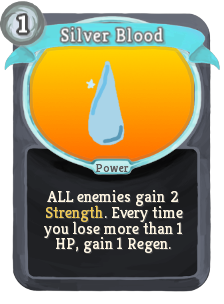
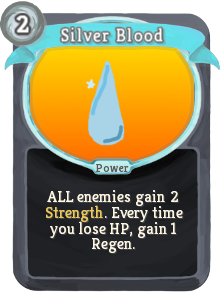
v0.2.17

Changed region(s): [[0.1875, 0.7105, 0.8125, 0.8586], [0.0625, 0.0296, 0.1562, 0.1184]]

diff --git a/imdex.html b/imdex.html
@@ -153,7 +153,7 @@
         <td>Common</td>
         <td>Attack</td>
         <td>1</td>
-        <td>Deal 9(12) Silent damage. Crit: !C! % Lose 1 Strength.</td>
+        <td>Deal 8(10) Silent damage. Crit: !C! % Lose 1 Strength.</td>
       </tr>
       
       <tr>
@@ -762,8 +762,8 @@
         <td><img src="card-images/SilverBloodPlus.png"></td>
         <td>Uncommon</td>
         <td>Power</td>
-        <td>1</td>
-        <td>ALL enemies gain 2(1) Strength. Every time you lose more than 1 HP, gain 1 Regen.</td>
+        <td>2</td>
+        <td>ALL enemies gain 2(1) Strength. Every time you lose HP, gain 1 Regen.</td>
       </tr>
       
       <tr>
